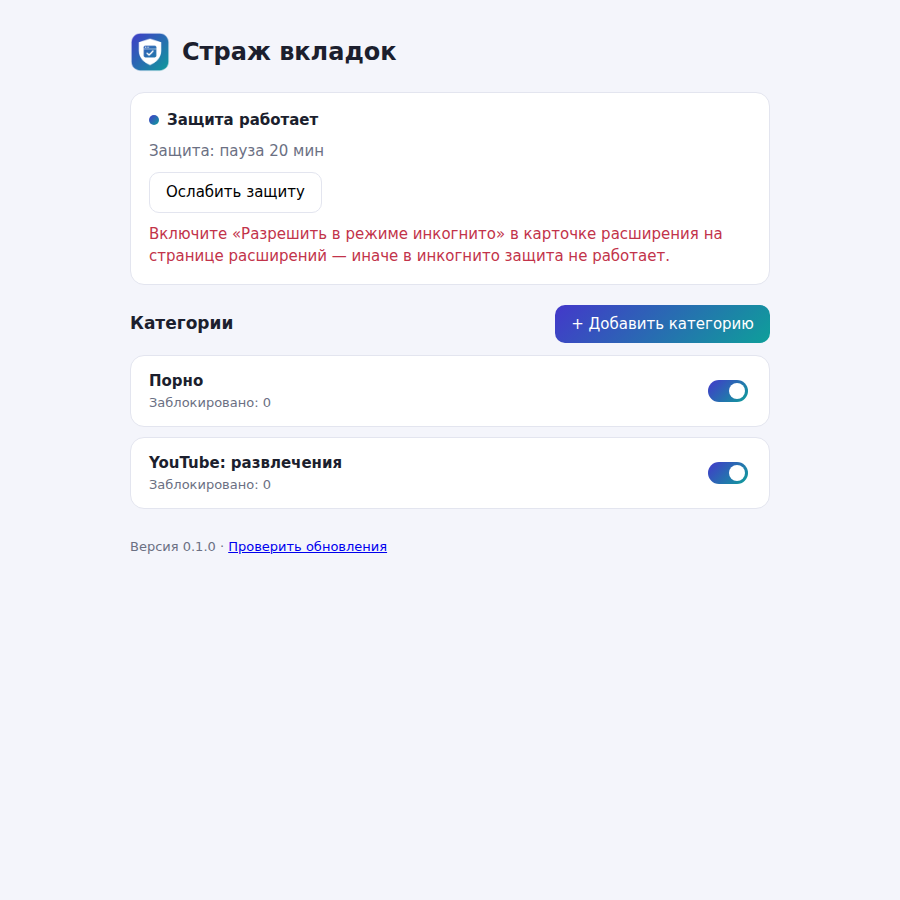
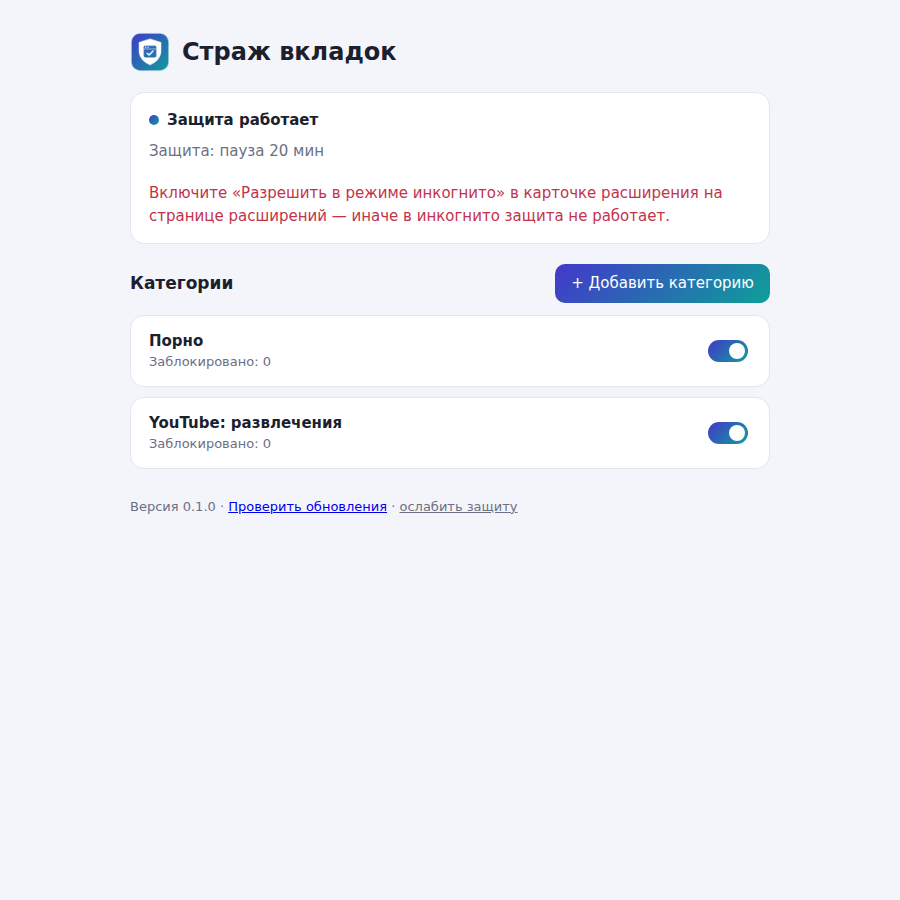
protection: typed phrase before a pause, weaken link moved to the bottom
Pause mode now asks to type «Я осознанно ослабляю свою защиту» by hand
(paste/drop blocked) before the countdown can start. «Ослабить защиту» is
a small link at the bottom of the settings on PC and Android. The
instruction page describes this and the new YouTube behaviour.

Claude-Session: https://claude.ai/code/session_01Qz4z99fTBQwEdWxTFMx1JG

Changed region(s): [[0.1244, 0.1867, 0.8711, 0.6222]]

diff --git a/app/src/main/kotlin/app/tabguard/ui/LockUi.kt b/app/src/main/kotlin/app/tabguard/ui/LockUi.kt
@@ -33,13 +33,14 @@ import androidx.compose.ui.text.input.KeyboardType
 import androidx.compose.ui.text.input.PasswordVisualTransformation
 import androidx.compose.ui.unit.dp
 import app.tabguard.R
+import app.tabguard.core.lock.Lock
 import app.tabguard.core.lock.LockMode
 
 private fun minutesLeft(ms: Long) = ((ms + 59_999) / 60_000).toInt()
 
 /** Status line and actions of the protection, shown on the main screen. */
 @Composable
-fun LockCard(state: MainState, onWeaken: () -> Unit, onChangeMode: () -> Unit, version: String, onUpdates: () -> Unit) {
+fun LockCard(state: MainState, onChangeMode: () -> Unit) {
     Card(Modifier.fillMaxWidth()) {
         Column(Modifier.padding(16.dp), verticalArrangement = Arrangement.spacedBy(8.dp)) {
             Text(stringResource(R.string.lock_title), style = MaterialTheme.typography.titleSmall)
@@ -54,13 +55,23 @@ fun LockCard(state: MainState, onWeaken: () -> Unit, onChangeMode: () -> Unit, v
                     else -> stringResource(R.string.lock_partner)
                 },
             )
-            Row(horizontalArrangement = Arrangement.spacedBy(8.dp)) {
-                if (lock.mode != null && !state.lockOpen) OutlinedButton(onClick = onWeaken) { Text(stringResource(R.string.lock_weaken)) }
-                if (state.lockOpen) TextButton(onClick = onChangeMode) { Text(stringResource(R.string.lock_change_mode)) }
-            }
-            Row(verticalAlignment = Alignment.CenterVertically) {
-                Text(stringResource(R.string.version_line, version), style = MaterialTheme.typography.bodySmall)
-                TextButton(onClick = onUpdates) { Text(stringResource(R.string.check_updates)) }
+            if (state.lockOpen) TextButton(onClick = onChangeMode) { Text(stringResource(R.string.lock_change_mode)) }
+        }
+    }
+}
+
+/** Bottom of the main screen: version, updates and — deliberately out of the way — weakening. */
+@Composable
+fun LockFooter(state: MainState, version: String, onUpdates: () -> Unit, onWeaken: () -> Unit) {
+    val small = MaterialTheme.typography.bodySmall
+    Column(Modifier.fillMaxWidth().padding(top = 24.dp, bottom = 88.dp)) {
+        Row(verticalAlignment = Alignment.CenterVertically) {
+            Text(stringResource(R.string.version_line, version), style = small)
+            TextButton(onClick = onUpdates) { Text(stringResource(R.string.check_updates), style = small) }
+        }
+        if (state.lock.mode != null && !state.lockOpen) {
+            TextButton(onClick = onWeaken) {
+                Text(stringResource(R.string.lock_weaken_small), style = small, color = MaterialTheme.colorScheme.outline)
             }
         }
     }
@@ -77,6 +88,7 @@ fun UnlockDialog(
     onClose: () -> Unit,
 ) {
     var pin by rememberSaveable { mutableStateOf("") }
+    var phrase by rememberSaveable { mutableStateOf("") }
     AlertDialog(
         onDismissRequest = onClose,
         title = { Text(stringResource(R.string.unlock_title)) },
@@ -87,9 +99,23 @@ fun UnlockDialog(
                     state.countdownLeftMs?.let {
                         Text(stringResource(R.string.lock_countdown, minutesLeft(it)), style = MaterialTheme.typography.titleMedium)
                     }
+                    if (state.countdownLeftMs == null) {
+                        Text(stringResource(R.string.unlock_phrase_hint, Lock.PAUSE_PHRASE))
+                        OutlinedTextField(
+                            phrase,
+                            // Typed, not pasted: a jump of several characters at once is ignored.
+                            { if (it.length <= phrase.length + 2) phrase = it },
+                            singleLine = true,
+                        )
+                    }
                     Row(horizontalArrangement = Arrangement.spacedBy(8.dp)) {
-                        if (state.countdownLeftMs == null) Button(onClick = onStart) { Text(stringResource(R.string.unlock_start)) }
-                        else OutlinedButton(onClick = onCancel) { Text(stringResource(R.string.unlock_cancel)) }
+                        if (state.countdownLeftMs == null) {
+                            Button(onClick = { onStart(); phrase = "" }, enabled = Lock.phraseMatches(phrase)) {
+                                Text(stringResource(R.string.unlock_start))
+                            }
+                        } else {
+                            OutlinedButton(onClick = onCancel) { Text(stringResource(R.string.unlock_cancel)) }
+                        }
                     }
                     TextButton(onClick = onTalk) { Text(stringResource(R.string.unlock_talk)) }
                 } else {

diff --git a/site/index.html b/site/index.html
@@ -102,8 +102,9 @@
   <section id="off">
     <h2>4. Если нужно отключить или изменить</h2>
     <ul>
-      <li>Нажмите в настройках <span class="menu">«Ослабить защиту»</span>.
-        В режиме «Пауза» запустите отсчёт; пока он идёт, можно поговорить с Claude о том, зачем хочется отключить.
+      <li>Внизу настроек есть маленькая ссылка <span class="menu">«ослабить защиту»</span>.
+        В режиме «Пауза» сначала нужно вручную напечатать фразу «Я осознанно ослабляю свою защиту» (вставить не получится),
+        потом запустить отсчёт; пока он идёт, можно поговорить с Claude о том, зачем хочется отключить.
         В режиме «Напарник» попросите его ввести PIN.</li>
       <li>После этого 5 минут можно выключать категории, убирать слова и сменить режим защиты.</li>
       <li><b>Забыли PIN</b> — удалите расширение на странице расширений и установите заново (категории и статистика сбросятся).</li>
@@ -115,9 +116,13 @@
     <ul>
       <li>Это помощник для самоконтроля, а не замок. Расширение, установленное из папки, можно удалить на странице расширений в обход паузы и PIN.</li>
       <li>Работает в Chrome и Яндекс.Браузере, где установлено. В другом браузере (Edge, Firefox) фильтра нет.</li>
-      <li>Развлекательные видео распознаются по словам в названии — что-то проскочит, что-то учебное иногда закроется.
+      <li>По словам в названии что-то учебное иногда закроется.
         Свои слова можно добавить в категорию в настройках.</li>
-      <li>Главная страница, поиск и подписки YouTube открываются; закрываются Shorts и видео с развлекательными названиями.</li>
+      <li>На компьютере при включённой категории «YouTube: развлечения» лента главной страницы, рекомендации справа,
+        заставки в конце видео и полки Shorts скрыты. Поиск и подписки работают.</li>
+      <li>Видео закрывается, если автор отнёс его к развлечениям, юмору, играм, блогам, фильмам, животным или музыке,
+        либо если в названии есть развлекательные слова. Учебные, научные, новостные и «хобби» видео открываются.
+        Автор может указать категорию неточно — что-то проскочит.</li>
     </ul>
   </section>
 

diff --git a/pc/extension/options/unlock.js b/pc/extension/options/unlock.js
@@ -1,5 +1,5 @@
 // Protection UI shared by the options page: status line, the unlock dialog (pause or partner PIN).
-import { remainingCountdownMs, startCountdown, cancelCountdown, tryPin, isUnlocked } from '../src/core/lock.js';
+import { remainingCountdownMs, startCountdown, cancelCountdown, tryPin, isUnlocked, phraseMatches } from '../src/core/lock.js';
 import { claudeUrl } from '../src/core/prompt.js';
 
 const $ = (id) => document.getElementById(id);
@@ -25,9 +25,11 @@ export function createUnlockUi(store) {
     else text = lock.mode === 'pause' ? `Защита: пауза ${lock.pauseMinutes} мин` : 'Защита: PIN напарника';
     $('lock-status').textContent = text;
     $('weaken').hidden = lock.mode === null || open;
+    $('weaken-wrap').hidden = $('weaken').hidden;
     $('change-mode').hidden = !(lock.mode === null || open);
     $('countdown').textContent = left !== null ? `Осталось ${minutes(left)} мин` : '';
     $('start-countdown').hidden = left !== null;
+    $('phrase-label').hidden = left !== null;
     $('cancel-countdown').hidden = left === null;
     if (open && $('unlock').open) $('unlock').close();
     return lock;
@@ -39,14 +41,22 @@ export function createUnlockUi(store) {
     $('unlock-partner').hidden = lock.mode !== 'partner';
     $('pin-error').textContent = '';
     $('pin-input').value = '';
+    $('phrase').value = '';
+    $('start-countdown').disabled = true;
     if (!$('unlock').open) $('unlock').showModal();
     await renderStatus();
   }
 
   $('talk').href = claudeUrl(WANT_TO_DISABLE_PROMPT);
   $('weaken').addEventListener('click', show);
+  // The phrase is typed, not pasted or dropped in.
+  for (const type of ['paste', 'drop']) $('phrase').addEventListener(type, (e) => e.preventDefault());
+  $('phrase').addEventListener('input', () => {
+    $('start-countdown').disabled = !phraseMatches($('phrase').value);
+  });
   $('unlock-close').addEventListener('click', () => $('unlock').close());
   $('start-countdown').addEventListener('click', async () => {
+    if (!phraseMatches($('phrase').value)) return;
     await store.saveLock(startCountdown(await store.getLock(), Date.now()));
     await renderStatus();
   });

diff --git a/pc/extension/options/options.html b/pc/extension/options/options.html
@@ -17,7 +17,6 @@
       <p id="status"><span class="dot"></span>Защита работает</p>
       <p id="lock-status" class="lock-status"></p>
       <div class="buttons">
-        <button id="weaken" hidden>Ослабить защиту</button>
         <a id="change-mode" href="setup.html" hidden>Сменить режим защиты</a>
       </div>
       <p id="incognito" class="warning" hidden>
@@ -64,6 +63,7 @@
     <footer class="hint">
       Версия <span id="version"></span> ·
       <a id="updates" href="https://github.com/area-ufa1/AiBlockSite/releases/latest" target="_blank" rel="noopener">Проверить обновления</a>
+      <span id="weaken-wrap"> · <button id="weaken" class="link" hidden>ослабить защиту</button></span>
     </footer>
   </main>
 
@@ -72,8 +72,11 @@
     <div id="unlock-pause" hidden>
       <p>Выключать категории и убирать слова можно после паузы. Если желание пройдёт за это время — отлично, значит, защита сработала.</p>
       <p id="countdown" class="countdown"></p>
+      <label id="phrase-label">Чтобы начать паузу, напишите вручную: <b>Я осознанно ослабляю свою защиту</b>
+        <input id="phrase" type="text" autocomplete="off" spellcheck="false">
+      </label>
       <div class="buttons">
-        <button id="start-countdown" class="primary">Начать паузу</button>
+        <button id="start-countdown" class="primary" disabled>Начать паузу</button>
         <button id="cancel-countdown" hidden>Отменить паузу</button>
         <a id="talk" class="button" target="_blank" rel="noopener">Поговорить с Claude</a>
       </div>

diff --git a/app/src/main/kotlin/app/tabguard/ui/MainActivity.kt b/app/src/main/kotlin/app/tabguard/ui/MainActivity.kt
@@ -122,13 +122,7 @@ class MainActivity : ComponentActivity() {
                     onAdd = { nav.navigate("edit/-1") },
                     setup = {
                         Column(verticalArrangement = Arrangement.spacedBy(12.dp)) {
-                        LockCard(
-                            state = state,
-                            onWeaken = vm::requestUnlock,
-                            onChangeMode = { changingMode = true },
-                            version = versionName(),
-                            onUpdates = { openUrl(RELEASES_URL) },
-                        )
+                        LockCard(state = state, onChangeMode = { changingMode = true })
                         SetupCard(
                             state = state,
                             onEnableService = {
@@ -139,6 +133,14 @@ class MainActivity : ComponentActivity() {
                             onOpenInstructions = { showInstructions = true },
                         )
                         }
+                    },
+                    footer = {
+                        LockFooter(
+                            state = state,
+                            version = versionName(),
+                            onUpdates = { openUrl(RELEASES_URL) },
+                            onWeaken = vm::requestUnlock,
+                        )
                     },
                 )
             }

diff --git a/pc/extension/src/core/lock.js b/pc/extension/src/core/lock.js
@@ -6,6 +6,16 @@ export const WINDOW_MS = 5 * MIN;
 export const PIN_LOCKOUT_MS = 30 * MIN;
 export const MAX_PIN_ATTEMPTS = 5;
 
+/** Typed (not pasted) before a pause can start: a moment to notice what is happening. */
+export const PAUSE_PHRASE = 'Я осознанно ослабляю свою защиту';
+
+const simplify = (s) => s.toLowerCase().replaceAll('ё', 'е').replace(/[^\p{L}\p{N}]+/gu, ' ').trim();
+
+/** Case, spacing and punctuation do not matter. */
+export function phraseMatches(text) {
+  return simplify(text ?? '') === simplify(PAUSE_PHRASE);
+}
+
 /** @typedef {{mode: 'pause'|'partner'|null, pauseMinutes: number, pinHash: string|null, salt: string|null,
  *   countdownStartedAt: number|null, unlockedUntil: number, failedAttempts: number, pinLockedUntil: number}} LockState */
 

diff --git a/core/src/main/kotlin/app/tabguard/core/lock/Lock.kt b/core/src/main/kotlin/app/tabguard/core/lock/Lock.kt
@@ -26,6 +26,15 @@ object Lock {
     const val PIN_LOCKOUT_MS = 30 * MIN
     const val MAX_PIN_ATTEMPTS = 5
 
+    /** Typed (not pasted) before a pause can start: a moment to notice what is happening. */
+    const val PAUSE_PHRASE = "Я осознанно ослабляю свою защиту"
+
+    private val NON_WORD = Regex("[^\\p{L}\\p{N}]+")
+    private fun simplify(s: String) = s.lowercase().replace('ё', 'е').replace(NON_WORD, " ").trim()
+
+    /** Case, spacing and punctuation do not matter. */
+    fun phraseMatches(text: String): Boolean = simplify(text) == simplify(PAUSE_PHRASE)
+
     /** Weakening changes are allowed: not configured yet, or inside the window. */
     fun isUnlocked(state: LockState, now: Long): Boolean = state.mode == null || now < state.unlockedUntil
 

diff --git a/pc/test/lock.test.js b/pc/test/lock.test.js
@@ -81,3 +81,12 @@ test('weakening rules', () => {
   assert.equal(isWeakening(cat(), cat({ keywords: ['a', 'b', 'c'], name: 'New' })), false, 'add word, rename');
   assert.equal(isWeakening(null, cat()), false, 'create');
 });
+
+test('pause starts only after the phrase is typed', async () => {
+  const { PAUSE_PHRASE, phraseMatches } = await import('../extension/src/core/lock.js');
+  assert.equal(PAUSE_PHRASE, 'Я осознанно ослабляю свою защиту');
+  assert.ok(phraseMatches('Я осознанно ослабляю свою защиту'));
+  assert.ok(phraseMatches('  я  осознанно ослабляю свою защиту. '));
+  assert.ok(!phraseMatches('Я осознанно ослабляю'));
+  assert.ok(!phraseMatches(''));
+});

diff --git a/core/src/test/kotlin/app/tabguard/core/lock/LockTest.kt b/core/src/test/kotlin/app/tabguard/core/lock/LockTest.kt
@@ -84,4 +84,12 @@ class LockTest {
         val threw = try { block(); false } catch (e: IllegalArgumentException) { true }
         assertTrue("expected IllegalArgumentException", threw)
     }
+
+    @Test fun `pause starts only after the phrase is typed`() {
+        assertEquals("Я осознанно ослабляю свою защиту", Lock.PAUSE_PHRASE)
+        assertTrue(Lock.phraseMatches("Я осознанно ослабляю свою защиту"))
+        assertTrue(Lock.phraseMatches("  я  осознанно ослабляю свою защиту. "))
+        assertFalse(Lock.phraseMatches("Я осознанно ослабляю"))
+        assertFalse(Lock.phraseMatches(""))
+    }
 }

diff --git a/pc/extension/options/options.css b/pc/extension/options/options.css
@@ -53,3 +53,6 @@ dialog::backdrop { background: rgba(20, 22, 40, .45); }
 .bundled { border: 1px solid var(--border); border-radius: 12px; padding: 10px 14px; margin: 4px 0 12px; }
 .bundled summary { cursor: pointer; font-weight: 600; }
 .bundled-words { font-size: 13px; line-height: 1.6; max-height: 240px; overflow-y: auto; overflow-wrap: anywhere; margin: 8px 0 0; }
+
+button.link { background: none; border: 0; padding: 0; color: inherit; font: inherit; text-decoration: underline; cursor: pointer; }
+#phrase { width: 100%; margin-top: 6px; }

diff --git a/app/src/main/kotlin/app/tabguard/ui/CategoriesScreen.kt b/app/src/main/kotlin/app/tabguard/ui/CategoriesScreen.kt
@@ -33,6 +33,7 @@ fun CategoriesScreen(
     onOpen: (Long) -> Unit,
     onAdd: () -> Unit,
     setup: @Composable () -> Unit,
+    footer: @Composable () -> Unit = {},
 ) {
     Scaffold(
         topBar = { TopAppBar(title = { Text(stringResource(R.string.app_name)) }) },
@@ -61,6 +62,7 @@ fun CategoriesScreen(
                     }
                 }
             }
+            item { footer() }
         }
     }
 }
